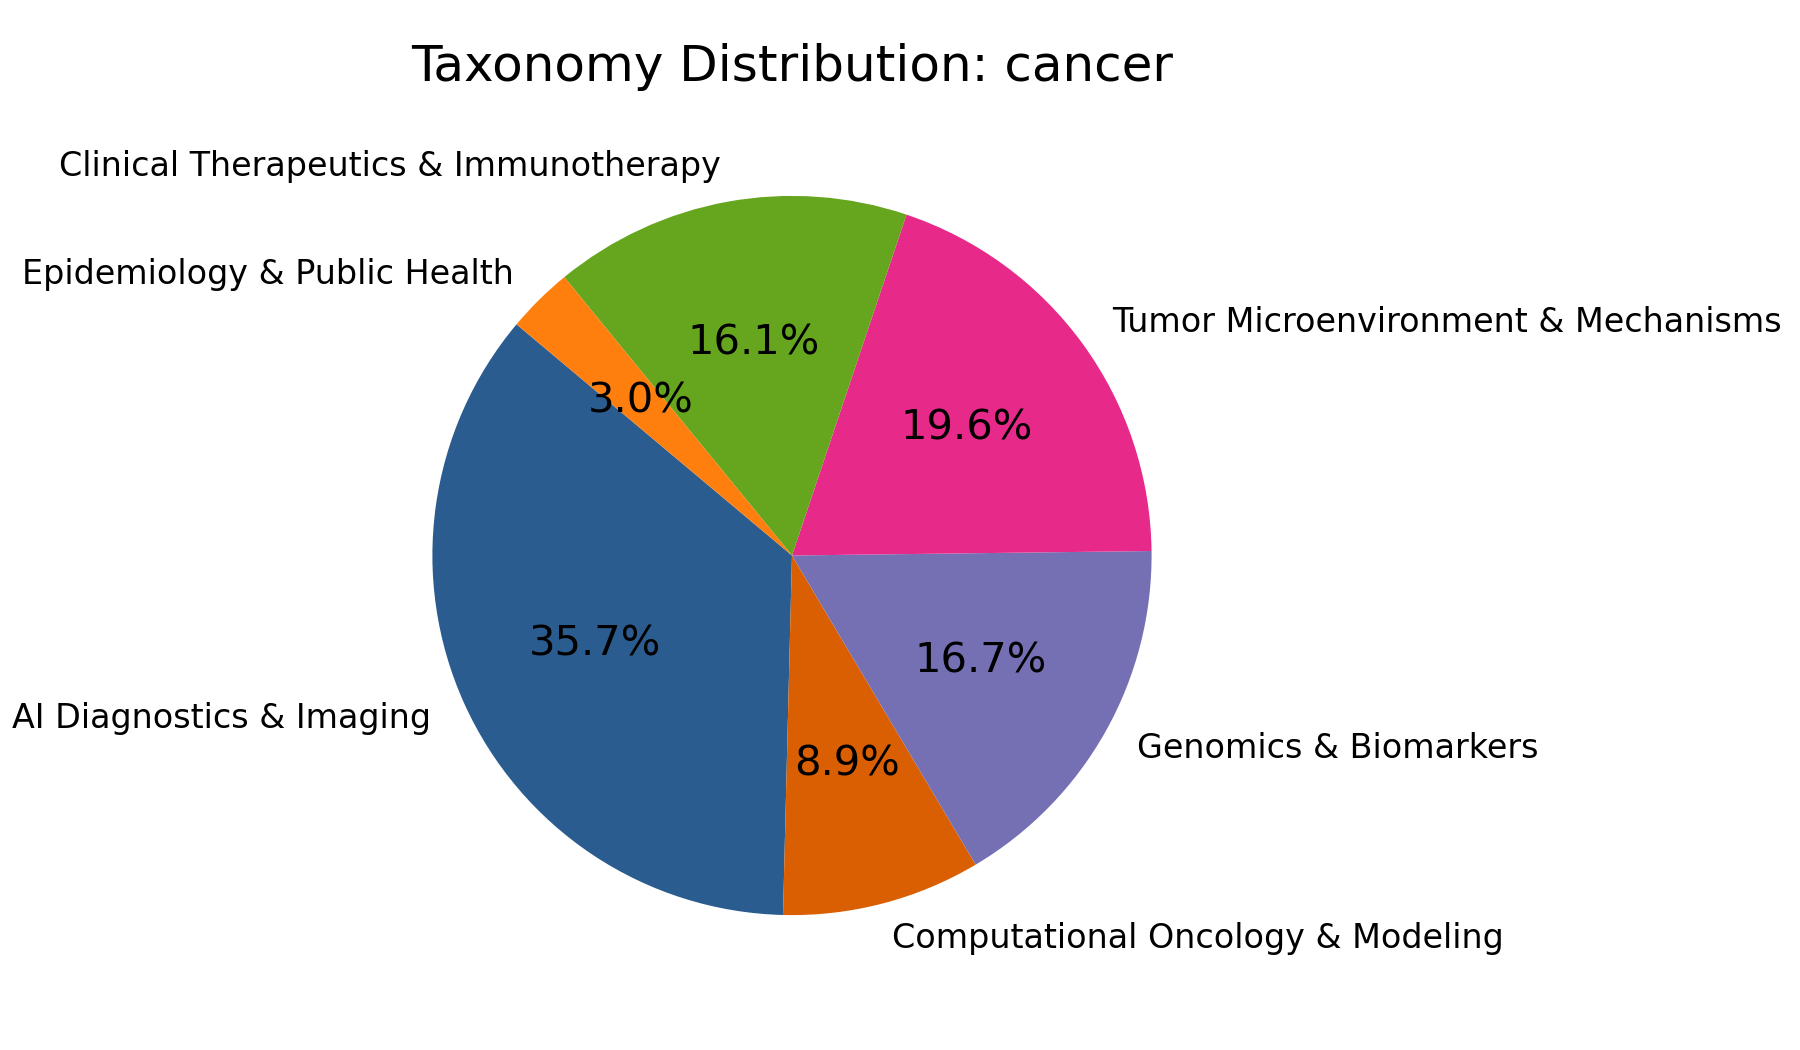
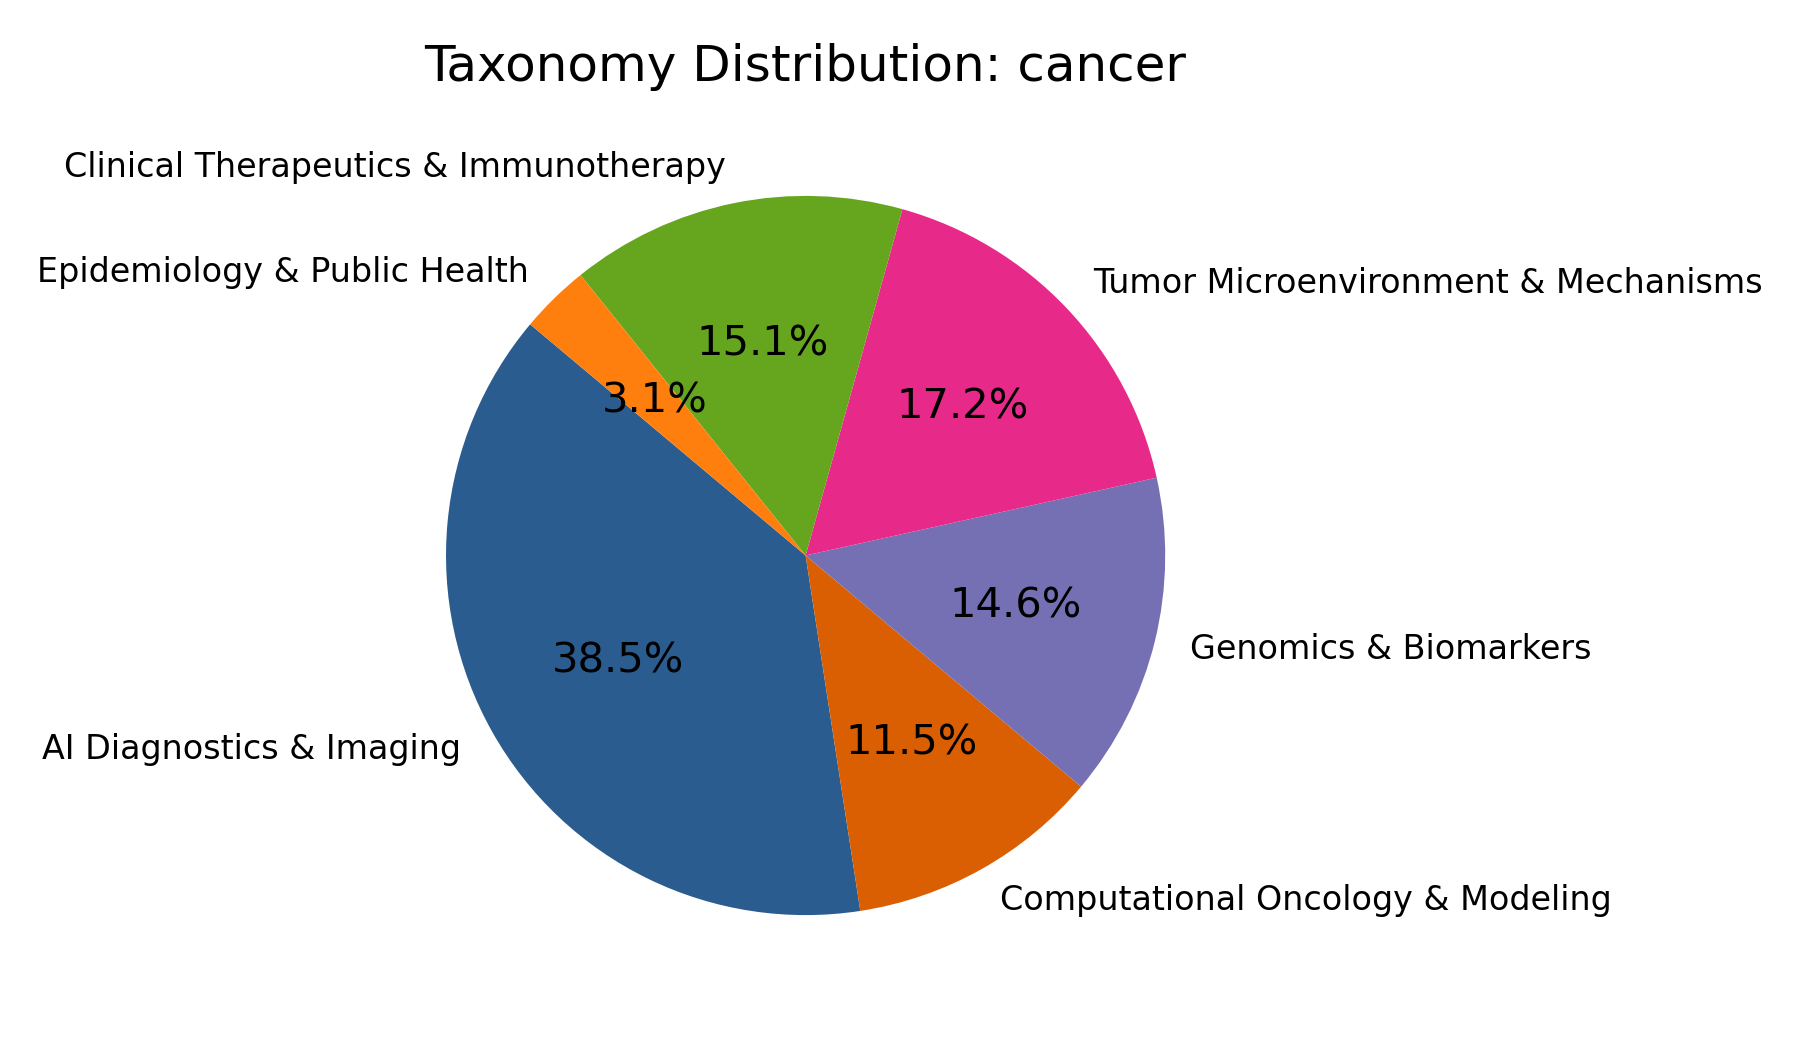
feat(cancer): integrated valid papers (LSS: 88.6)

diff --git a/surveys/cancer/generate_figures.py b/surveys/cancer/generate_figures.py
@@ -11,8 +11,8 @@ plt.rcParams.update({'font.size': 10, 'axes.labelsize': 11, 'axes.titlesize': 12
 
 SURVEY_TITLE = "cancer"
 # [AI AGENT ZONE] Edit only these dictionaries
-TIMELINE_DATA = {"2024": 0, "2025": 0, "2026": 144, "2027": 19, "2028": 2, "2029": 1, "2031": 1}
-TAXONOMY_DATA = {"AI Diagnostics & Imaging": 60, "Computational Oncology & Modeling": 15, "Genomics & Biomarkers": 28, "Tumor Microenvironment & Mechanisms": 33, "Clinical Therapeutics & Immunotherapy": 27, "Epidemiology & Public Health": 5}
+TIMELINE_DATA = {"2024": 0, "2025": 0, "2026": 168, "2027": 19, "2028": 2, "2029": 1, "2031": 1}
+TAXONOMY_DATA = {"AI Diagnostics & Imaging": 74, "Computational Oncology & Modeling": 22, "Genomics & Biomarkers": 28, "Tumor Microenvironment & Mechanisms": 33, "Clinical Therapeutics & Immunotherapy": 29, "Epidemiology & Public Health": 6}
 
 def plot_publication_timeline():
     years, counts = list(TIMELINE_DATA.keys()), list(TIMELINE_DATA.values())

diff --git a/surveys/cancer/cancer.md b/surveys/cancer/cancer.md
@@ -26,6 +26,8 @@ AI-driven diagnostic pipelines are achieving remarkable precision across diverse
 
 Furthermore, foundation models are expanding their reach across oncological modalities. The oFM framework integrates clinical trajectories with DNA, RNA, and H&E pathology to produce patient state embeddings that significantly improve prognostic benchmarks and treatment-benefit ranking in large-scale oncology cohorts [^2608.24688]. In computational pathology, WILSON represents whole-slide and multi-slide cases as composite images, surpassing dedicated case-level models in diagnostic text retrieval and histologic subtyping without task-specific training [^2609.25123]. Similarly, LUCAID couples diagnostic reasoning with a multi-module agentic workflow for lung cancer precision pathology, achieving high concordance with expert panels in prospective validation [^2608.23803]. For prostate cancer, end-to-end vision-language models trained from scratch enable native-language report generation, overcoming the limitations of English-centric encoders [^2608.23143]. In breast imaging, MAMA-FLUX.2 employs conditional latent flow-matching to synthesize post-contrast DCE-MRI from pre-contrast scans, optimizing tumor-region fidelity through parameter-efficient fine-tuning [^2608.25648]. The Boot-and-Feedback framework synergizes multimodal LLMs with expert models for breast ultrasound diagnosis, mitigating hallucinations via BI-RADS lexicon guidance and attention-gated cross-modality fusion [^2608.23974]. Additionally, parameter-efficient transfer learning strategies like SWIFT adapt pretrained CT encoders to MRI for rectal cancer segmentation, balancing computational efficiency with calibrated uncertainty [^2608.27178]. Beyond imaging, agentic bioinformatics workflows like Orchestra compose independent MCP servers to corroborate regulatory candidate discoveries through topology and experimental evidence [^2609.05496], while PROSPECTor operationalizes open-ended discovery by searching expression representations and foundation-model embeddings to generate testable hypotheses for gastric-cancer T-cell programs [^2609.00681]. Cross-tissue protein co-abundance networks are also being mapped at scale using LLM-agent frameworks, uncovering non-obvious cancer-relevant clusters involving extracellular-matrix remodeling and immune modulation [^2608.28990].
 
+Recent advancements in spatial multi-omics and reliability-aware clustering have introduced OmicSync, which couples unsupervised domain clustering with evidence-constrained LLM reasoning to generate auditable, spot-level explanations for spatial domain discovery [^2608.22785]. In clinical workflows, edge AI systems are being deployed directly on institutional hardware to transcribe and structure breast cancer multidisciplinary team discussions, ensuring privacy while providing guideline-informed treatment recommendations [^2608.22108]. Imaging biomarkers are also being refined; pretreatment DCE-MRI entropy has been shown to resolve response quality within pathologic endpoints for neoadjuvant breast cancer, identifying structural states that predict recurrence risk beyond standard pCR metrics [^2608.22097]. Furthermore, temporal deep learning models applied to baseline and early-cycle DW-MRI enable highly accurate early prediction of pathological complete response, reducing reliance on gadolinium and heterogeneous clinical data [^2609.26106]. Federated learning frameworks continue to expand privacy-preserving collaboration, with a new smartphone-based system achieving high AUC for oral cancer screening across decentralized datasets [^2608.19462]. Multimodal PET/CT segmentation benefits from self-supervised learning across tracers (MUST-PET), improving generalizability across pan-cancer cohorts [^2608.19666], while tracer-specific fusion strategies are being rigorously evaluated to preserve modality-specific representations in prostate cancer [^2608.19063]. Quantum-classical hybrid models are also entering the diagnostic space, with quantum kernel estimation demonstrating competitive performance for early lung cancer detection using cfDNA fragmentomics and methylation data [^2608.19304]. Lightweight architectures optimized for edge deployment, such as MobileViTv2, now achieve robust sensitivity and specificity for oral cancer screening despite class imbalance and sensor noise [^2608.21583]. Vision Transformers are being leveraged for early lung cancer risk prediction from routine chest X-rays, with transfer learning and hybrid resampling strategies significantly boosting balanced accuracy [^2608.21571]. In prostate cancer, the CHIMERA Challenge provides a standardized multimodal benchmark integrating mpMRI, histopathology, and clinical variables for biochemical recurrence prediction, highlighting the robustness of multimodal models when clinician annotations are missing [^2608.21497]. Test-time adaptation frameworks like ANT align encoder representations to prostate anatomy at inference, correcting domain-specific feature drift in micro-ultrasound cancer detection [^2608.20557]. Surgical skill assessment is being advanced through trajectory-based tissue tension recognition models trained on expert-annotated laparoscopic rectal cancer datasets [^2608.17935]. Finally, augmented longitudinal datasets like CFB-GBM v2.0 provide comprehensive multi-modal glioblastoma imaging and radiomic features to support reproducible treatment response prediction and disease progression modeling [^2608.17884].
+
 ## Genomics & Biomarker Discovery
 High-dimensional genomic data continues to drive biomarker identification and spatial multi-omics. The S3VS framework improves variable recovery in ultra-high-dimensional settings by exploiting predictor correlations, demonstrating strong performance in ovarian cancer data [^2609.24945]. Proteome-wide mapping across cancer cell lines reveals stable transcriptomic predictors of protein abundance, enabling interpretable modeling even when proteomic data is scarce [^2609.24004]. Bayesian inference methods, such as the Mixed Graph WWA algorithm, facilitate scalable structure learning for heterogeneous gene expression data [^2609.23857]. Non-invasive diagnostics are advancing through THz spectroscopy of urine vapors for prostate cancer detection [^2609.23814] and semi-supervised learning pipelines for multi-stage hepatocellular carcinoma prediction [^2609.17100]. Pan-cancer analyses are yielding valuable insights: a co-expression network identifies hub genes predictive of drug responses [^10.5281_zenodo.2574643], while spatial multi-omics reveals lymphocyte exclusion sites in ccRCC lung metastases [^10.5281_zenodo.18767278]. Liquid biopsy techniques are being refined through cfDNA nucleosome positioning analysis, establishing repeat-based signatures for pan-cancer and tissue-specific diagnostics [^10.5526_err-00042900], and nucleosome repositioning landscapes are being mapped for glioblastoma multiforme [^10.5526_err-00042862]. Single-cell spatial atlases are also being constructed for pan-cancer metastatic brain tumors [^10.5281_zenodo.21816284], alongside comprehensive RNA-seq cohorts for colorectal cancer [^10.5281_zenodo.8307739] and urinary proteomics for breast cancer biomarker discovery [^10.5281_zenodo.20393677][^10.5281_zenodo.20405726].
 
@@ -48,7 +50,11 @@ Clinical trial matching and oncology data abstraction are being transformed by A
 
 Therapeutic optimization and delivery mechanisms continue to evolve. In esophageal cancer, uncertainty-incorporated ensemble models predict severe radiotherapy-induced lymphopenia using dosimetric variables, supporting proton therapy selection and dose optimization [^2609.25139]. Patient trajectories during curative treatment are being mapped to tailor prehabilitation programs, revealing substantial individual variation in physical fitness and nutritional status declines that necessitate multidimensional assessment [^https:__openalex.org_W7213390462]. Uterine carcinosarcoma prognosis is being refined through large-scale population analyses and prospective quality-of-life assessments, identifying molecular targets and evaluating diagnostic accuracy of preoperative sampling methods [^https:__openalex.org_W7211233619]. Nanomedicine discovery is accelerated by AI-driven multimodal frameworks that predict nano self-assembly between molecular pairs, establishing standardized benchmarks for anti-cancer formulation refinement [^2609.04278]. Green-synthesized silver nanoparticles derived from *Mimosa pudica* exhibit concentration-dependent anti-proliferative activity against breast cancer cells, inducing mitochondrial-dependent apoptosis and modulating metastasis-suppression genes [^10.5281_zenodo.22700928]. Medical microbubbles are being repurposed as versatile theranostic carriers, leveraging ultrasound activation to bridge the blood-brain barrier and deliver gene therapies or targeted cancer treatments [^10.5281_zenodo.19676282]. Furthermore, structure-guided drug development is targeting PKD2 isoform-specific allosteric modulators for pancreas cancer, utilizing molecular dynamics and ligand-based pharmacophore modeling to overcome conserved active site challenges [^https:__openalex.org_W7212416877].
 
+Adaptive therapy strategies are being refined under parametric and measurement uncertainty, demonstrating that within-tumour competition exploitation robustly improves time-to-progression in prostate cancer virtual cohorts, though sustained tumour burden metrics may indicate disadvantages in certain risk profiles [^2608.18387].
+
 ## Epidemiology & Public Health
 Access to advanced imaging is being democratized through mobile CT services deployed in rural and remote areas, with telehealth and regulatory-authorized AI identified as key integrators for underserved populations [^2609.14347]. Statistical modeling of screening programs addresses historical bias; Markov models demonstrate that differential detection in prostate cancer screening can artificially inflate observed risk ratios, necessitating inverse sensitivity analyses for accurate registry data [^2609.12376]. Trial design methodologies are also being optimized, with optimal cohort staircase designs providing analytical solutions for cluster randomized trials in psychosocial cancer care, balancing repeated measurement burdens with statistical precision [^2609.13740].
 
 Comparative surveys of European breast cancer screening programs highlight significant variations in organization and general practitioner involvement, with population-based systems showing higher uptake rates than opportunistic models [^10.48620_98880].
+
+Propensity score methods for causal inference are being adapted for case-control studies, demonstrating that relative effects like causal risk ratios are estimable under outcome-dependent sampling schemes and applied to examine aspirin use and ovarian cancer risk [^2608.20080].
